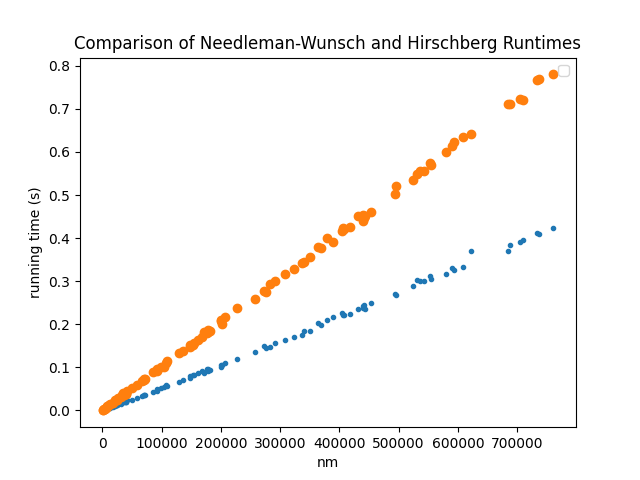
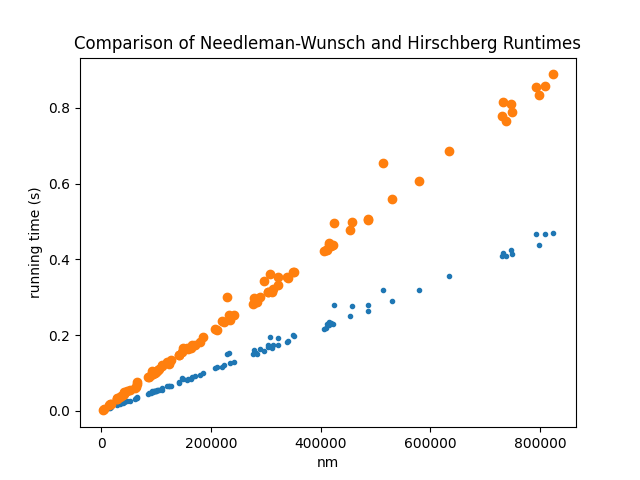
Updated graphs

diff --git a/02-module/code/hirschberg/time1_32.py b/02-module/code/hirschberg/time1_32.py
@@ -75,9 +75,10 @@ for t in range(trials):
     print(f'{table[-1]}')
 
 # Plot the runtime comparisons
-plt.plot(nm_array, nwtime_array, '.')
-plt.plot(nm_array, hbtime_array, 'o')
+plt.plot(nm_array, nwtime_array, '.', label='NW Time')
+plt.plot(nm_array, hbtime_array, 'o', label='Hirschberg Time')
 #plt.legend(handles=[nwtime_array, hbtime_array])
+#plt.legend()
 plt.xlabel('nm')
 plt.ylabel('running time (s)')
 plt.title('Comparison of Needleman-Wunsch and Hirschberg Runtimes')
